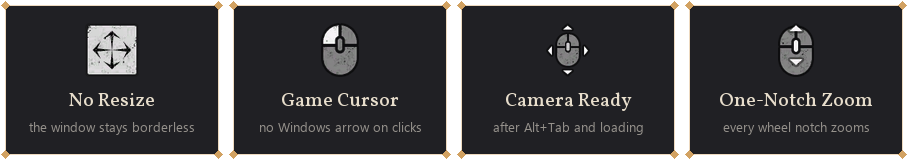
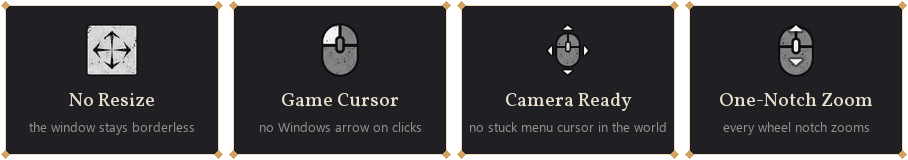
Explain the camera fix: the game leaves the mouse in menu mode after loading in or coming back to the window

Changed region(s): [[0.4934, 0.75, 0.7401, 0.8438]]

diff --git a/nexus/make_page.py b/nexus/make_page.py
@@ -53,7 +53,7 @@ art.INTRO = [
     ('glance', 'glance', [
         ('icon_move', 'No Resize', 'the window stays borderless'),
         ('icon_click', 'Game Cursor', 'no Windows arrow on clicks'),
-        ('icon_mousemove', 'Camera Ready', 'after Alt+Tab and loading'),
+        ('icon_mousemove', 'Camera Ready', 'no stuck menu cursor in the world'),
         ('icon_wheel', 'One-Notch Zoom', 'every wheel notch zooms'),
     ]),
     ('req', [('Requires', 'an ASI loader (DMM has one)'), ('Tested on', 'game 1.0.0.3576'),
@@ -69,9 +69,11 @@ art.SECTIONS = [
         ('media', 'resize', ['media_resize.gif'], '', True),
         ('step', 'No Windows Arrow', 'Clicks and the screen edges no longer flash the **plain Windows arrow** '
                  'over the game.'),
-        ('step', 'The Camera Works Straight Away', 'After **Alt+Tab**, after **loading in** and when the '
-                 '**HUD appears**, the mouse turns the camera at once, instead of steering an invisible cursor '
-                 'until Kliff takes a step. Menus keep their cursor.'),
+        ('step', 'The Camera Works Straight Away', 'The game sometimes **leaves the mouse in menu mode** after '
+                 'you are back in the world: moving the mouse **doesn\'t turn the camera**, it steers an invisible '
+                 'menu cursor instead, until Kliff takes a step. It happens **when you load in** (as soon as the '
+                 'HUD appears) and **when you come back to the game** from another window, with Alt+Tab or a '
+                 'click. With the mod, the camera answers the mouse **right away**. Menus keep their cursor.'),
         ('step', 'A Proper Title Screen Cursor', 'No cursor over the intro. When the title prompts appear, it '
                  'starts **on the logo\'s ring** instead of the top-left corner.'),
         ('media', 'title', ['media_title.png'], '', False),

diff --git a/README.md b/README.md
@@ -6,8 +6,10 @@ An ASI mod that fixes how Crimson Desert handles the mouse in borderless window 
   its corner, so a click and drag there shrank the game into windowed mode. The mod turns that border off while the
   game covers the screen. Windowed mode is untouched.
 - **No Windows arrow.** Clicks and the screen edges no longer flash the plain Windows arrow over the game.
-- **The camera works straight away.** After Alt+Tab, after loading in and when the HUD appears, the mouse turns the
-  camera at once instead of moving a cursor until Kliff takes a step. Menus keep their cursor.
+- **The camera works straight away.** The game sometimes leaves the mouse in menu mode after you are back in the
+  world: moving the mouse steers an invisible menu cursor instead of turning the camera, until Kliff takes a step.
+  It happens when you load in (as soon as the HUD appears) and when you come back to the game from another window
+  (Alt+Tab or a click). The mod hands the mouse back to the camera right away. Menus keep their cursor.
 - **The title cursor.** No cursor over the intro; when the title prompts appear it starts on the logo's ring.
 - **One notch, one zoom.** A single mouse-wheel notch zooms the camera (the game needed two in quick succession).
 
